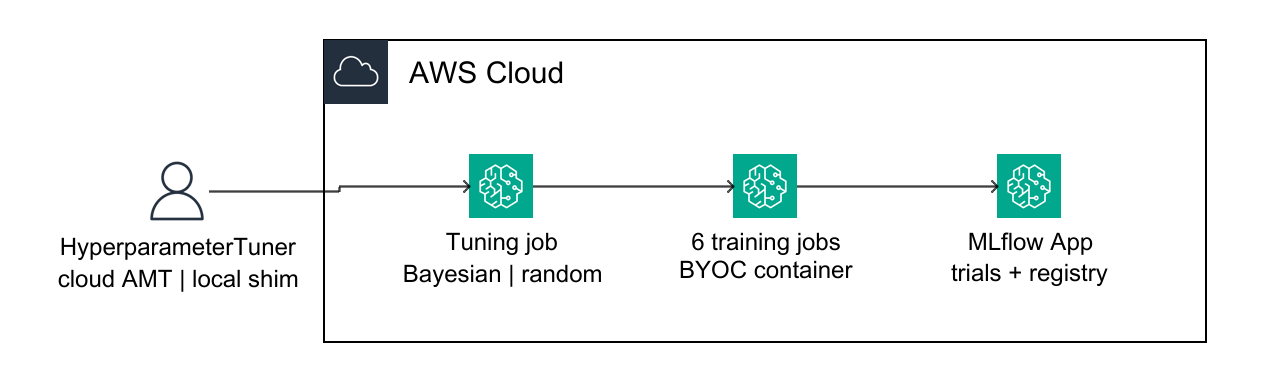
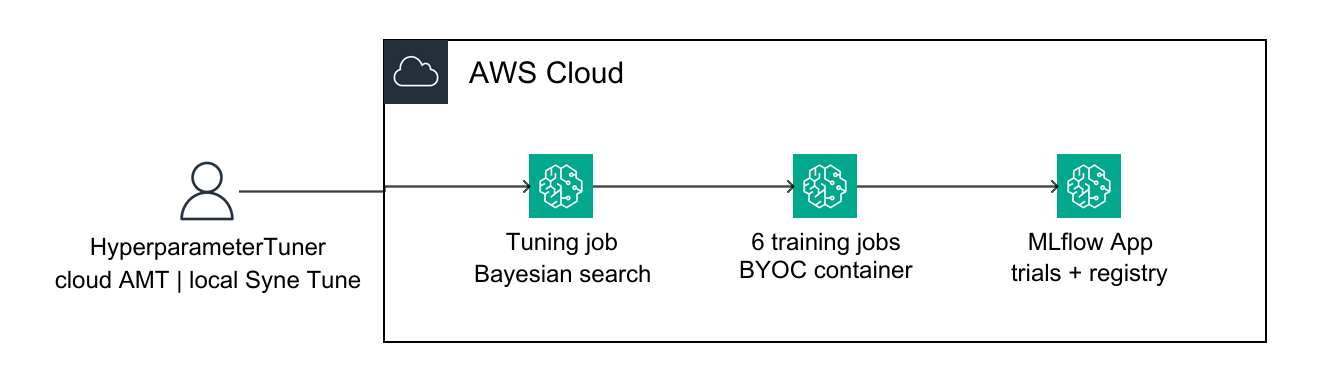
book (~): sync recent work to main — PyArrow lake, AMT/ELT diagrams, six-factor scorecard

diff --git a/code/ch-01-data-engineering/lake-basics/parquet_lake.py b/code/ch-01-data-engineering/lake-basics/parquet_lake.py
@@ -1,12 +1,13 @@
 # /// script
-# dependencies = ["boto3", "pandas", "pyarrow", "duckdb", "s3fs"]
+# dependencies = ["boto3", "pandas", "pyarrow", "s3fs"]
 # ///
 """Why Parquet wins: write a partitioned dataset, query it in place.
 
 Builds a small applications table, writes it to the lake as Parquet
-partitioned by vintage, and answers "average PD by vintage" by scanning
-only the columns and partitions the query needs. DuckDB stands in for
-the laptop-scale reader; on AWS the same files are Athena's territory.
+partitioned by vintage, and answers "average default rate by vintage" by
+reading only the columns and partitions the query needs. PyArrow's dataset
+reader does the pruning on the laptop; on AWS the same files are Athena's
+territory.
 
 Usage:
   uv run lake-basics/parquet_lake.py
@@ -16,8 +17,9 @@ import os
 import random
 
 import boto3
-import duckdb
 import pandas as pd
+import pyarrow.dataset as ds
+import pyarrow.fs as pafs
 
 BUCKET = os.environ.get("LAKE_BUCKET", "credit-lake")
 
@@ -28,7 +30,7 @@ applications = pd.DataFrame(
         "vintage": [
             random.choice(["2025-11", "2025-12", "2026-01"]) for _ in range(600)
         ],
-        "pd": [round(random.uniform(0.01, 0.25), 4) for _ in range(600)],
+        "default_rate": [round(random.uniform(0.01, 0.25), 4) for _ in range(600)],
         "state": [random.choice(["CA", "TX", "NY"]) for _ in range(600)],
     }
 )
@@ -49,22 +51,47 @@ applications.to_parquet(
 )
 print("wrote partitioned Parquet to s3://credit-lake/curated/applications/")
 
-# query in place: only two columns are read, and the vintage filter
-# prunes whole partitions before a single file is opened
-duckdb.sql("install httpfs; load httpfs;")
+# query in place: PyArrow reads only the two columns the answer needs, and the
+# vintage filter prunes whole partitions before a single file is opened
 if endpoint:
     host = endpoint.removeprefix("http://").removeprefix("https://")
-    duckdb.sql(f"""
-        set s3_endpoint='{host}'; set s3_use_ssl=false; set s3_url_style='path';
-        set s3_access_key_id='{os.environ.get("AWS_ACCESS_KEY_ID", "local")}';
-        set s3_secret_access_key='{os.environ.get("AWS_SECRET_ACCESS_KEY", "localsecret")}';
-    """)
+    lake_fs = pafs.S3FileSystem(
+        access_key=os.environ.get("AWS_ACCESS_KEY_ID", "local"),
+        secret_key=os.environ.get("AWS_SECRET_ACCESS_KEY", "localsecret"),
+        endpoint_override=host,
+        scheme="http",
+    )
 else:
-    duckdb.sql("create or replace secret aws (type s3, provider credential_chain);")
-result = duckdb.sql(f"""
-    select vintage, round(avg(pd), 4) as mean_pd, count(*) as applications
-    from read_parquet('s3://{BUCKET}/curated/applications/*/*.parquet', hive_partitioning=true)
-    where vintage >= '2025-12'
-    group by vintage order by vintage
-""")
-print(result)
+    lake_fs = pafs.S3FileSystem()  # region + credentials from the chain
+
+# only the Parquet files: the same prefix also holds a hand-written JSON object
+# (see s3_objects.py), so read the dataset explicitly, the way Athena's table
+# definition scopes itself to the curated files
+parquet_files = [
+    f.path
+    for f in lake_fs.get_file_info(
+        pafs.FileSelector(f"{BUCKET}/curated/applications", recursive=True)
+    )
+    if f.path.endswith(".parquet")
+]
+applications_ds = ds.dataset(
+    parquet_files,
+    filesystem=lake_fs,
+    format="parquet",
+    partitioning=ds.partitioning(flavor="hive"),
+)
+recent = applications_ds.to_table(
+    columns=["vintage", "default_rate"],  # column pruning
+    filter=ds.field("vintage") >= "2025-12",  # partition pruning
+)
+result = (
+    recent.group_by("vintage")
+    .aggregate([("default_rate", "mean"), ("default_rate", "count")])
+    .to_pandas()
+    .rename(
+        columns={"default_rate_mean": "avg_dr", "default_rate_count": "applications"}
+    )
+    .sort_values("vintage")
+)
+result["avg_dr"] = result["avg_dr"].round(4)
+print(result.to_string(index=False))

diff --git a/code/ch-03-generative-ai/corpus_data.py b/code/ch-03-generative-ai/corpus_data.py
@@ -129,27 +129,31 @@ POLICY = [
             "Solar-sector borrowers are young companies in a new market, so there"
             " is no external credit score. The underwriter assigns an internal"
             " risk profile from 1 to 10, where 10 is the most risky, using the"
-            " five-factor rating scorecard that follows. The risk profile and the"
+            " six-factor rating scorecard that follows. The risk profile and the"
             " exposure together determine who may approve the deal."
         ),
     },
     {
         "id": "policy-rating-methodology",
-        "title": "Rating methodology: the five-factor scorecard",
+        "title": "Rating methodology: the six-factor scorecard",
         "body": (
             "With no external score, the underwriter rates each deal on a"
             " qualitative scorecard adapted from the supervisory slotting approach"
-            " for specialised lending. Five factors are each graded strong, good,"
-            " satisfactory, or weak. One, financial strength: leverage, debt"
+            " for specialised lending: the five slotting factors, plus a sixth"
+            " the firm added for its market. Six factors are each graded strong,"
+            " good, satisfactory, or weak. One, financial strength: leverage, debt"
             " service coverage, liquidity, and the quality of projected cash flow."
-            " Two, market and sector position: the sector profile, competitive"
-            " position, and dependence on subsidies. Three, sponsor and execution:"
-            " the track record of the installer or developer, management depth, and"
-            " delivery history. Four, security package: collateral quality, the"
-            " borrowing base, and for project companies the power purchase"
-            " agreement and account security. Five, climate and transition:"
-            " exposure to subsidy and policy change, physical and production risk"
-            " on the assets, and the borrower's position in the energy transition."
+            " Two, political and legal environment: the stability of the subsidy"
+            " and permitting regime the cash flows depend on, and the"
+            " enforceability of the contracts behind them. Three, transaction"
+            " characteristics: tenor against contract length, amortization"
+            " profile, and the technology risk of the financed equipment. Four,"
+            " strength of sponsor: the track record of the installer or developer,"
+            " management depth, and delivery history. Five, security package:"
+            " collateral quality, the borrowing base, and for project companies"
+            " the power purchase agreement and account security. Six, climate and"
+            " transition: physical and production risk on the assets, and the"
+            " borrower's position in the energy transition."
             " The underwriter weights the factors, takes the weighted average, and"
             " maps it to a category. Strong maps to risk profile 1 to 3, good to 4"
             " to 5, satisfactory to 6 to 7, and weak to 8 to 10."

diff --git a/code/ch-03-generative-ai/underwriting-agent/agent.py b/code/ch-03-generative-ai/underwriting-agent/agent.py
@@ -49,10 +49,11 @@ AGENT_SYSTEM = (
     " These borrowers have no external credit score, so you support the"
     " underwriter's judgment, you do not replace it. Work a deal in this order."
     " First call lookup_sector to retrieve the relevant sector profile, the"
-    " five-factor rating scorecard, and the credit policy. Using only that"
-    " retrieved guidance, grade the five factors (financial strength; market and"
-    " sector position; sponsor and execution; security package; climate and"
-    " transition) and map the result to an internal risk profile from 1 to 10,"
+    " six-factor rating scorecard, and the credit policy. Using only that"
+    " retrieved guidance, grade the six factors (financial strength; political"
+    " and legal environment; transaction characteristics; strength of sponsor;"
+    " security package; climate and transition) and map the result to an"
+    " internal risk profile from 1 to 10,"
     " where 10 is the most risky. Work from the deal description and the sector"
     " baseline. If a specific figure is not given, assume the sector norm, say so"
     " in one line, and proceed; do not ask the user for more information. Then"

diff --git a/code/ch-01-data-engineering/lake-basics/iceberg_applications.py b/code/ch-01-data-engineering/lake-basics/iceberg_applications.py
@@ -27,7 +27,9 @@ rows = pa.table(
         "vintage": pa.array(
             [random.choice(["2025-12", "2026-01"]) for _ in range(200)], pa.string()
         ),
-        "pd": pa.array([round(random.uniform(0.01, 0.25), 4) for _ in range(200)]),
+        "default_rate": pa.array(
+            [round(random.uniform(0.01, 0.25), 4) for _ in range(200)]
+        ),
         "decision": pa.array(
             [random.choice(["APPROVE", "REFER", "DECLINE"]) for _ in range(200)],
             pa.string(),

diff --git a/code/ch-01-data-engineering/README.md b/code/ch-01-data-engineering/README.md
@@ -27,7 +27,7 @@ make dbt-run         # staging views and the gold mart, via dbt-redshift
 make dbt-test        # source and mart tests
 make gold            # top of applicant_credit_profile
 make lake-objects    # buckets, objects, prefixes, provenance metadata
-make lake-parquet    # partitioned Parquet + a DuckDB query in place
+make lake-parquet    # partitioned Parquet + a PyArrow read in place
 make lake-table      # an Iceberg applications table via PyIceberg
 make lake-table-query # the same table through Trino SQL
 make features        # ship the gold mart to the Iceberg feature table
@@ -86,7 +86,7 @@ One local cloud for the chapter, one folder per use case:
   - `dbt/`: sources with tests, staging views, and the gold mart
     `applicant_credit_profile`
 - `lake-basics/`: the lake section's examples (objects and metadata,
-  partitioned Parquet with DuckDB, an Iceberg table with PyIceberg).
+  partitioned Parquet with PyArrow, an Iceberg table with PyIceberg).
   S3 Inventory configuration appears in the chapter text only: MinIO does
   not implement the inventory API, and the configuration has not yet been
   applied to a bucket on real S3

diff --git a/code/ch-01-data-engineering/aws/README.md b/code/ch-01-data-engineering/aws/README.md
@@ -8,7 +8,7 @@ credential chain. Each target tees its output to `/tmp` with the date.
 ```
 make check-account   # which account and bucket names the runs will use
 make lake-objects    # buckets/objects/metadata on real S3
-make lake-parquet    # partitioned Parquet to real S3, DuckDB reads it back
+make lake-parquet    # partitioned Parquet to real S3, PyArrow reads it back
 make lake-table      # S3 Tables: PyIceberg append + scan over SigV4 REST
 make glue-run        # the bureau job as a real Glue Python shell job
 make feature-group   # Feature Store online: create, put, get
